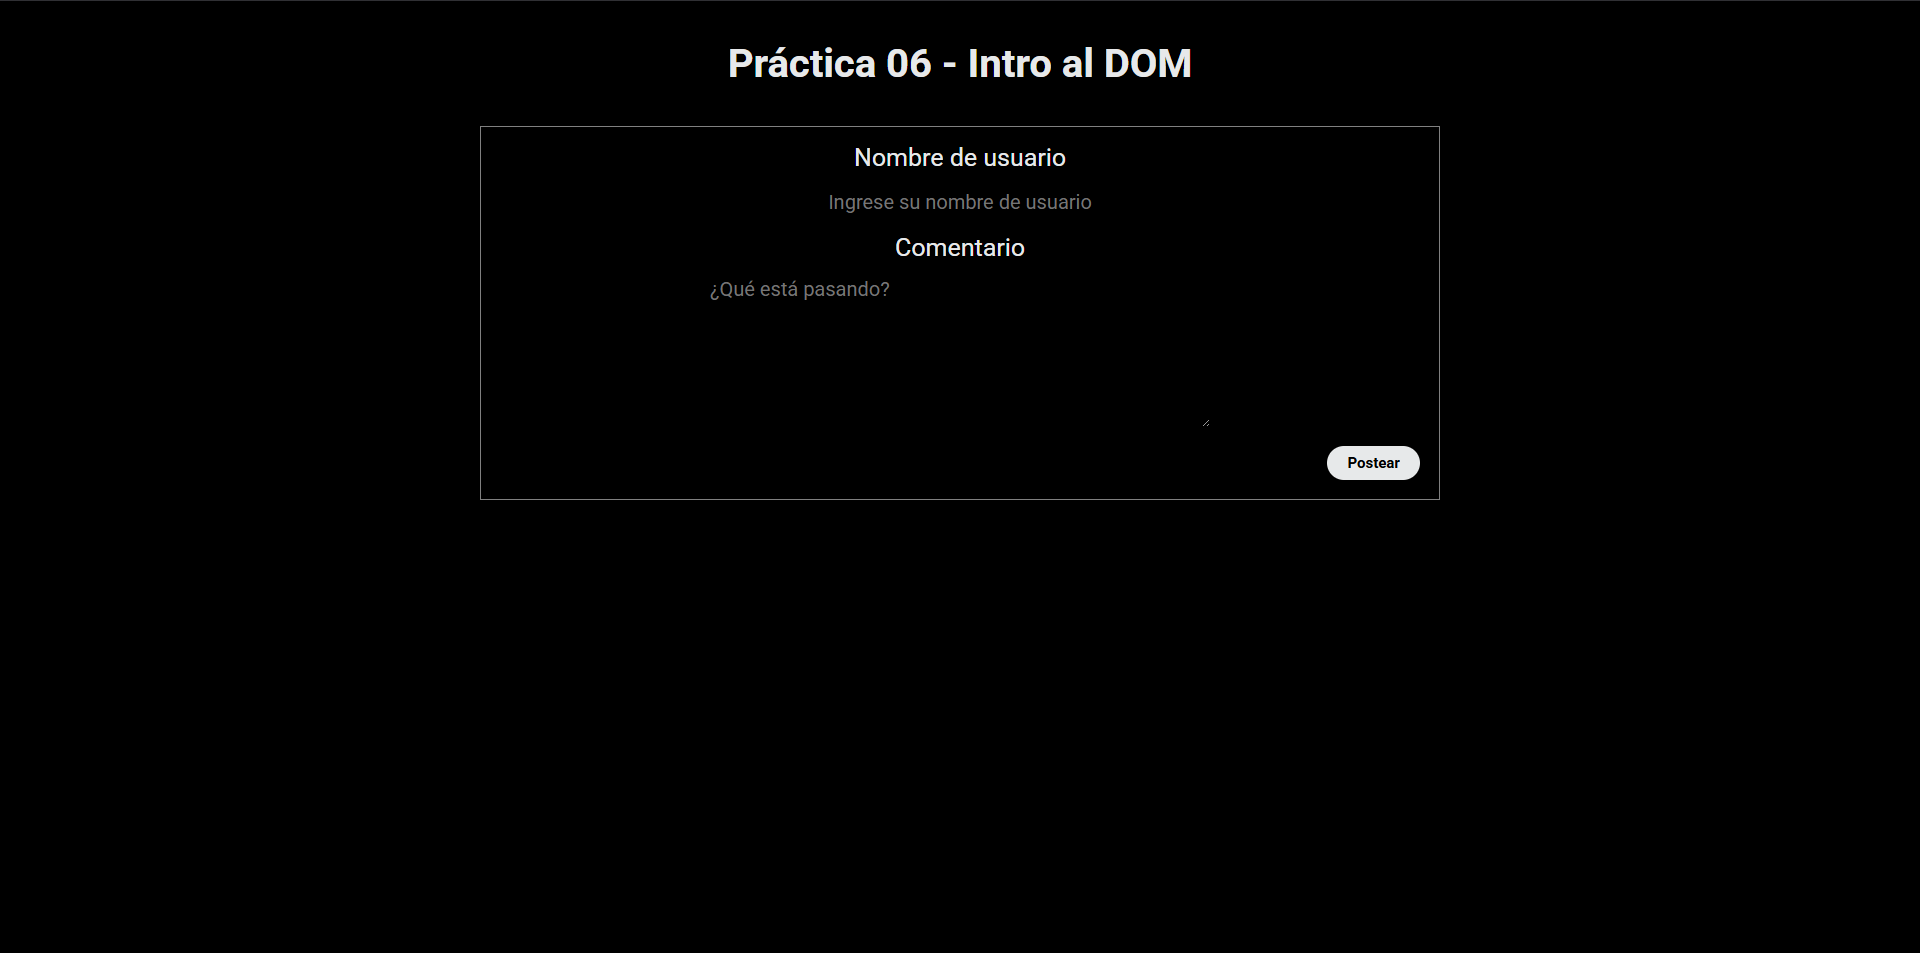
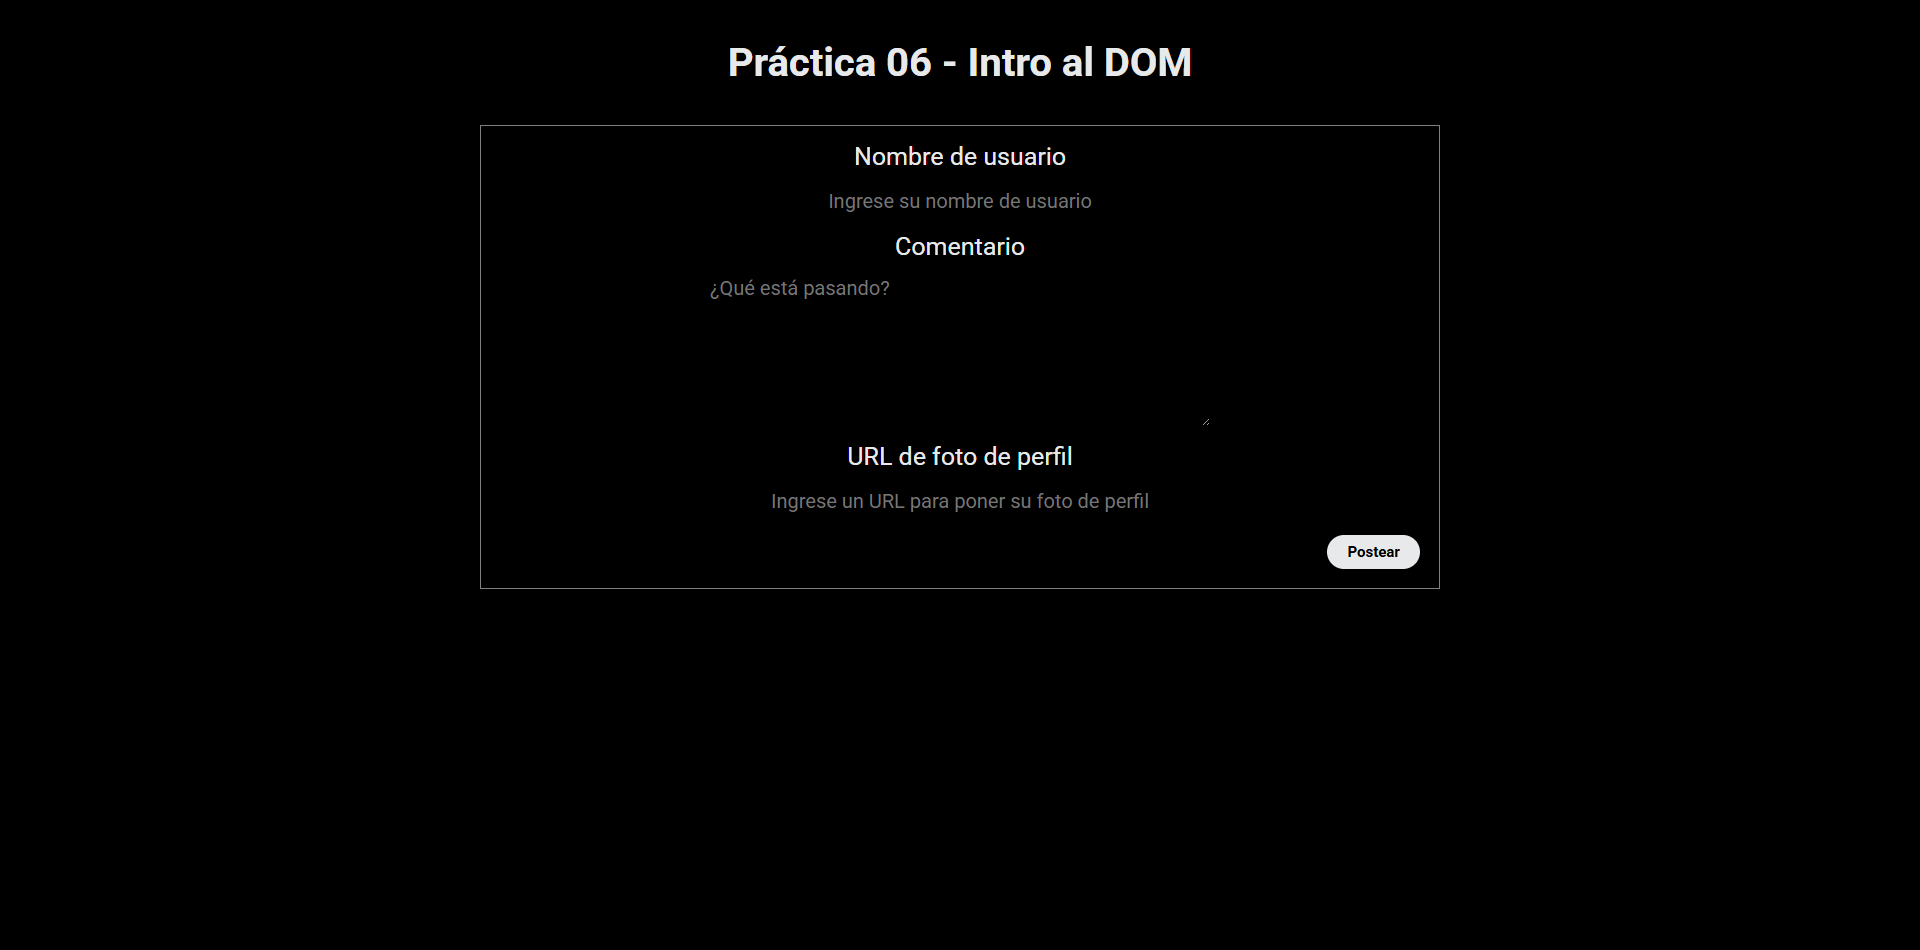
Añadido readme y capturas, correciones en el nombramiento de unos elementos

diff --git a/06-introduccion-al-dom/script.js b/06-introduccion-al-dom/script.js
@@ -3,10 +3,8 @@
 const formulario = document.querySelector("#formulario"); // formulario general
 const nombre = document.querySelector("#input-nombre"); // input de nombre
 const comentario = document.querySelector("#input-comentario"); // textarea de comentario
-const boton_enviar = document.querySelector("#boton-enviar"); // boton de enviar
 const fotoPerfil = document.querySelector("#input-foto"); // url de foto de perfil
 
-let idComentario = 0;
 
 
 function enviarFormulario (event){
@@ -24,12 +22,9 @@ function enviarFormulario (event){
     imagenPerfil.setAttribute("class","foto-perfil");
     
 
-    // le agrego el id al comentario
-    nuevoComentario.setAttribute("id",idComentario);
-
     // creo un div contenido comentario, aqui es donde voy a guardar el contenido como: usuario, fecha y el texto del comentario
-    const textoComentario = document.createElement("div");
-    textoComentario.setAttribute("class","contenido-comentario");
+    const contenidoComentario = document.createElement("div");
+    contenidoComentario.setAttribute("class","contenido-comentario");
 
     // creo un div usuario-fecha, donde guardaré el nombre de usuario y fecha
     const usuarioFechayHora = document.createElement("div");
@@ -51,20 +46,20 @@ function enviarFormulario (event){
     usuarioFechayHora.appendChild(fechaHora);
 
 
-    //creo un parrafo con el contenido del comentario escrito
-    const contenidoComentario = document.createElement("p");
-    contenidoComentario.setAttribute("class","contenido-comentario");
+    //creo un parrafo con el texto del comentario escrito
+    const textoComentario = document.createElement("p");
+    textoComentario.setAttribute("class","contenido-comentario");
     // agrego el texto del input al parrafo recien creado de comentario
-    contenidoComentario.textContent = `${comentario.value}`;
+    textoComentario.textContent = `${comentario.value}`;
 
     // agrego el usuario-fechayhora y el contenido del comentario al contenedor del comentario, asi el usuario y fecha y hora los puedo estilizar de forma horizontal arriba y que el comentario posteado quede abajo
-    textoComentario.appendChild(usuarioFechayHora);
-    textoComentario.appendChild(contenidoComentario);
+    contenidoComentario.appendChild(usuarioFechayHora);
+    contenidoComentario.appendChild(textoComentario);
 
     // y agrego todos estos al contenedor general del comentario,el cual incluirá el botón de eliminar en unos momentos, entonces será a la izquierda el usuario fecha y hora, teniendo abajo el comentario y a la derecha el botón de eliminar
     nuevoComentario.appendChild(imagenPerfil);
     
-    nuevoComentario.appendChild(textoComentario);
+    nuevoComentario.appendChild(contenidoComentario);
 
 
     //creo un boton para borrar el comentario

diff --git a/06-introduccion-al-dom/README.md b/06-introduccion-al-dom/README.md
@@ -1,6 +1,6 @@
 # Lección 6 - Introducción al DOM: Caja de Comentarios (Simple Comment Box)
 
-
+En este lección se practicó con el DOM en Javascript, como el añadir elementos HTML por medio de Javascript o modificar los elementos que existan en HTML, así como también se practicó con el eventListener.
 
 
 ## Archivos del proyecto
@@ -21,11 +21,16 @@
 - **ejemplos-clase/index.html**: Archivo base para poder ejecutar el script.js
 - **ejemplos-clase/script.js**: Notas acerca del DOM en javascript vistos en clase
 
-- **img/Captura.png**: Captura de pantalla del funcionamiento del programa en el navegador
+- **img/Captura.png**: Captura de pantalla inicial
+- **img/Captura 1.png**: Captura de pantalla con comentarios
+- **img/Captura 2.png**: Captura de pantalla con el comentario 1 eliminado
 
 ## Aprendizajes:
 
-
+- Qué es el DOM y cómo lo puedo manipular con JavaScript
+- Cómo puedo seleccionar y modificar elementos HTML desde JavaScript
+- Uso de addEventListener para manejar eventos (como un clic en un botón o un submit en un formulario)
+- Práctica con el proyecto de caja de comentarios
 
 
 
@@ -33,7 +38,12 @@
 
 A continuación se muestra una captura de pantalla del código funcionando en la consola del navegador:
 
-![Captura de tipos de datos](./img/Captura.png)
+![Captura inicial del programa](./img/Captura.png)
+
+![Captura con datos añadidos ](./img/Captura1.png)
+
+![Captura con el primer comentario eliminado ](./img/Captura2.png)
+
 
 ## Ejemplo de uso
 
@@ -53,6 +63,24 @@ https://mor4n.github.io/introduccion-a-javascript-01.github.io/06-introduccion-a
 
 
 ## Como conclusión personal:
+En esta práctica pude aprender demasiado sobre el DOM, siento que en parte la práctica fue muy parecida a lo que estuvimos haciendo en clase, lo clave siento yo fue la mini pista que nos dijo sobre que en el formulario se iba a hacer diferente a como lo estuvimos haciendo por el submit, en este caso, en lugar de hacer el eventListener en el botón, debe de ser en el formulario.
+Usé el e.preventDefault() para evitar que se recargara la pagina, que tengo entendido que es algo que pasaría porque el formulario mandaría los datos a donde le hayamos especificado en el atributo "action", de ahí perdón de verdad si puse muchos comentarios o hice un revoltijo en el script.js :( primero que nada, obtuve el elemento con el querySelector de cada dato: desde el input de nombre, del comentario, de la foto de perfil, así como del formulario en sí.
+Luego creé diferentes elementos con el createElement y le añadí su clase con setAttribute (esto para poder estilizarlo con css), esto lo hice con un contenedor que almacenara en sí todo el comentario.
+Quise hacer un diseño parecido a twitter, por ejemplo, con la foto de perfil a la izquierda, a lado de ello el nombre del usuario, al lado del nombre de usuario estaría la fecha y hora, y abajo de esto puse el comentario. 
+A la derecha de todo puse un botón de eliminar para que no tuviera espacio faltante ;u;
+Por lo tanto:
+- El nuevoComentario engloba el comentario en si, siendo el contenedor de todo, adentro se guarda:
+    - Foto de perfil (Está a la izquierda de todo)
+    - Contenido comentario, el cual almacena el contenido del comentario, siendo estos elementos:
+        - Usuario + fecha y hora (Lo guardo en su propio div para que pueda ponerlo en forma horizontal)
+        - Texto Comentario : es el comentario ingresado en el input (Está colocado asi para que quede debajo del usuario + fecha y hora)
+    - Botón de eliminar (Este queda a la derecha de todo)
+Lo mencionado anteriormente y por lo que pido disculpas ;n; es que siento que se ve muy embarañoso mi código (pido perdón, es la primera vez que intento esto), se realizó con appendChild para guardar cada cosa en nuevoComentario como un nodo hijo por así decirlo.
+A cada elemento, le llegué a insertar texto con .textContent y le ponía el value del elemento que declaré al inicio de los inputs.
+Para obtener la fecha y hora pude encontrar en StackOverflow un código que me sirvió bastante, el que fue new Date().toLocaleString(), donde directamente obtiene la fecha y hora y lo convierte a string formateado en nuestra región, lo cual se me hizo demasiado chido y muy práctico.
+Para la funcionalidad de borrar comentario fue donde siento que me trabé demasiado, en un inicio pensé en algo como "ponerle id's a cada elemento con un contador" y que de alguna forma al dar clic en el botón, como que viera en que id había cliqueado y que directamente borrara el contenedor del nuevoComentario, entonces, el borrar el contenedor pude encontrar más o menos rápido en la documentación de mozilla que era con un .remove(), sin embargo, mi problema fue el como le hago para irme atrás, o que vea la capa superior o nodo superior por así decirlo de donde estoy dando clic.
+Pido perdón también porque siento que probablemente esta no sea la solución óptima otra vez q-q pero como le pude encontrar y lo que entiendo de esto fue de que el e.target es el elemento exacto que le di clic, que viene siendo el button, el parentElement sería como "sube un nodo y dime que elemento es ahora al que apuntas", entonces, en lugar de ahora apuntar al botón, va a apuntar al contenedor del nuevo comentario, y al hacer el .remove, va a eliminar el elemento del DOM.
+Pude aprender demasiado con esta práctica, mil gracias y de verdad, una disculpa por la cajeteada 😿 
 
 
 ## Fuentes:
